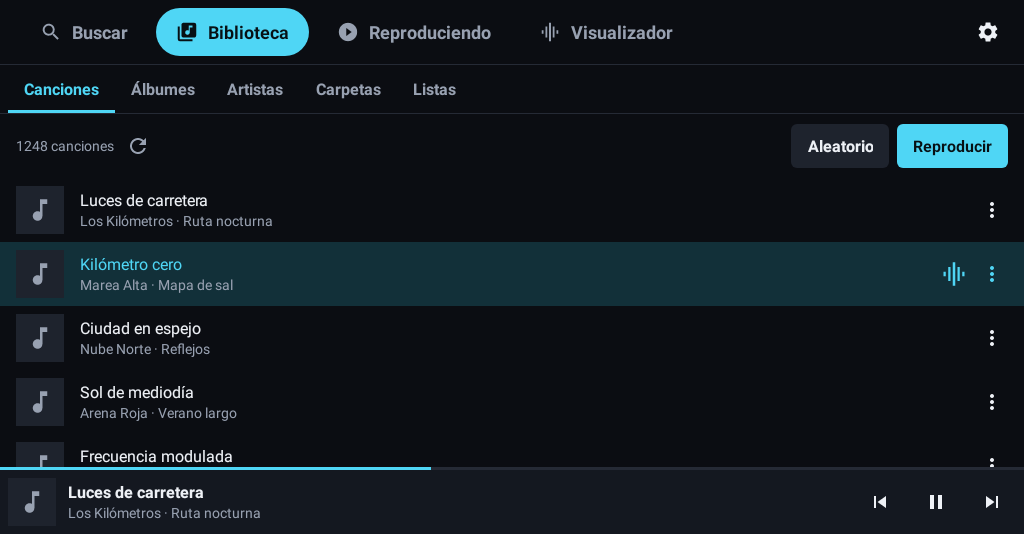
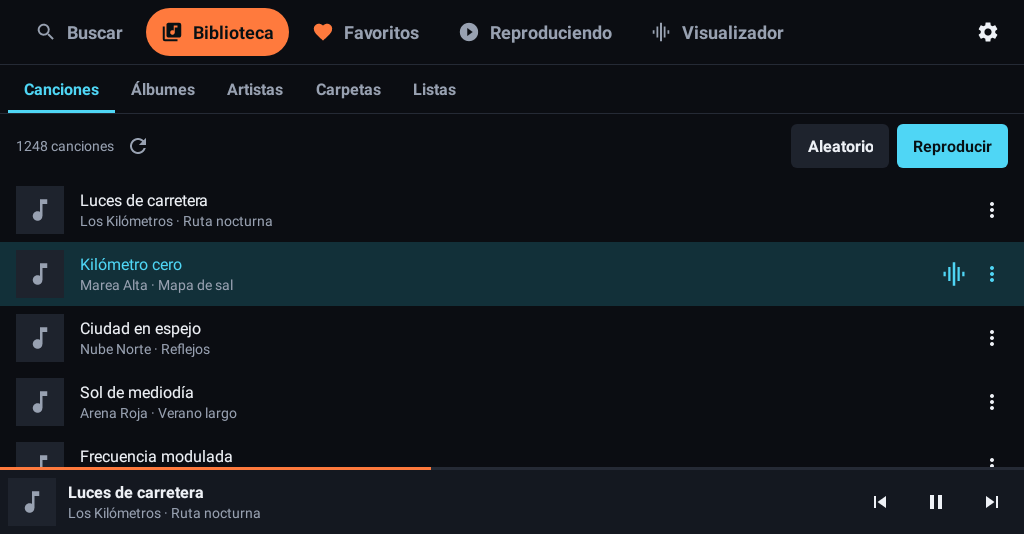
Capturas de la 0.18.0 en README y novedades
Claude-Session: https://claude.ai/code/session_012dZvHdVuUJNBMhQ49X6f2G

Changed region(s): [[0.0312, 0.0, 0.7812, 0.1199], [0.0, 0.8689, 0.4062, 0.8989]]

diff --git a/docs/NOVEDADES.md b/docs/NOVEDADES.md
@@ -10,6 +10,12 @@
 - **Buscar:** el teclado se esconde solo 1,5 s después de la última letra para dejar ver los
   resultados (tocar el campo lo muestra de nuevo).
 
+![Barra superior con color dinámico y Favoritos: Reproduciendo](https://raw.githubusercontent.com/web-gdl/RadilloPlayerWave/main/docs/screenshots/reproduciendo.png)
+
+![Barra superior con color dinámico y Favoritos: Biblioteca](https://raw.githubusercontent.com/web-gdl/RadilloPlayerWave/main/docs/screenshots/biblioteca.png)
+
+(Capturas del autoestéreo, 1024×534. El naranja es un ejemplo: el color cambia con la portada de cada canción.)
+
 ### Novedades de la 0.17.0
 
 - **Favoritos y listas a salvo al reinstalar:**

diff --git a/README.md b/README.md
@@ -64,7 +64,9 @@ Nombre provisional: comprobar disponibilidad de marca antes de cualquier uso com
 |---|---|
 | ![Biblioteca](docs/screenshots/biblioteca.png) | ![Reproduciendo](docs/screenshots/reproduciendo.png) |
 | **Visualizador** | **Ajustes** |
-| ![Visualizador](docs/screenshots/visualizador.png) | ![Ajustes](docs/screenshots/ajustes.png) |
+| ![Visualizador](docs/screenshots/visualizador.png) | ![Ajustes](docs/screenshots/ajustes.png)
+
+El naranja de la barra superior es un ejemplo: toma el color de la portada de la canción que suena. |
 
 ## Estado
 
